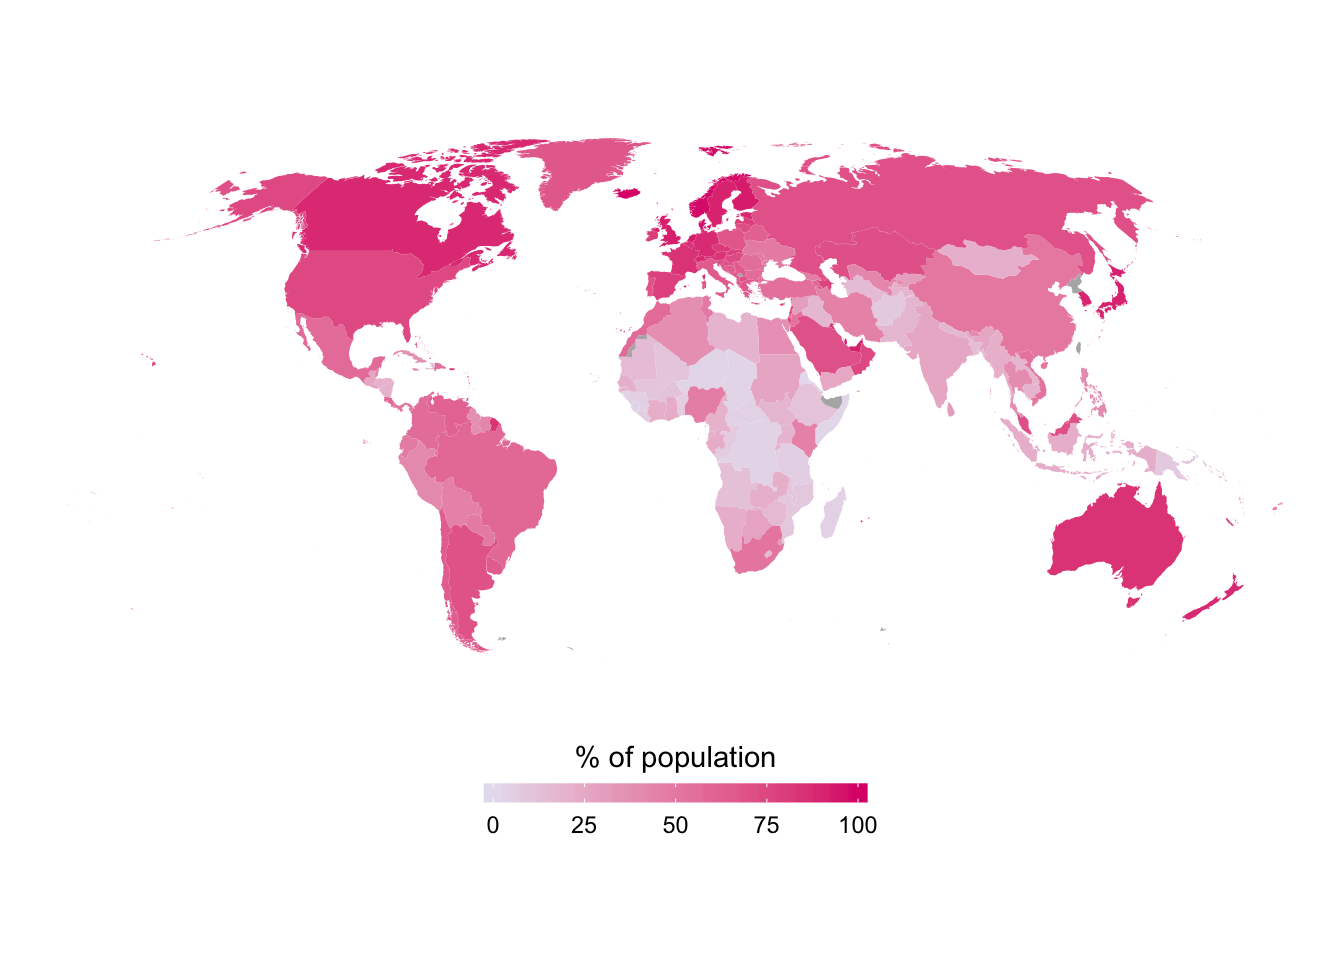
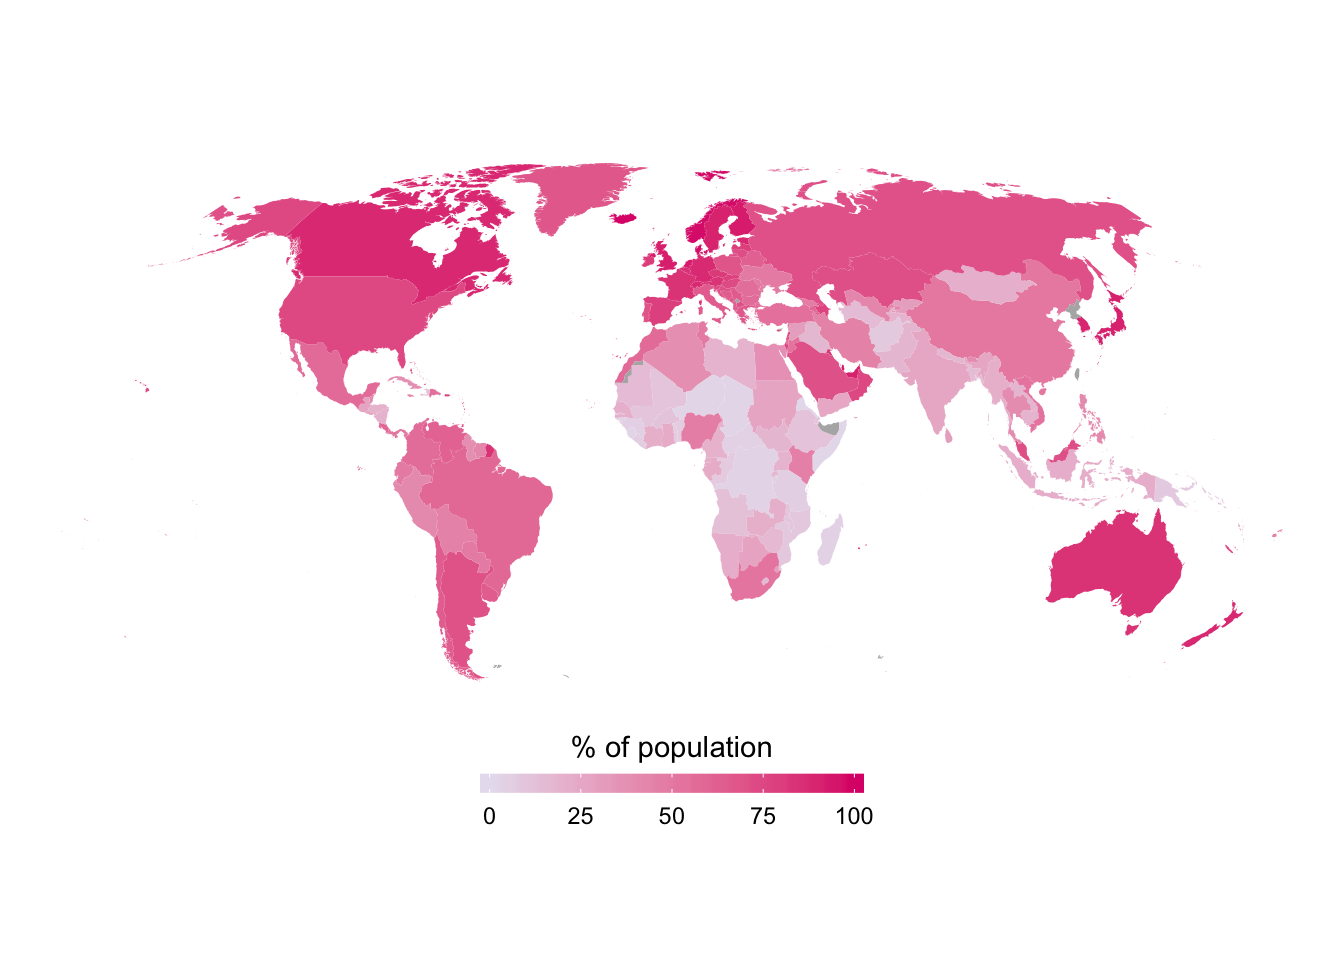
Disable automatic graticule

Changed region(s): [[0.1562, 0.125, 0.9375, 0.7188], [0.3438, 0.75, 0.6562, 0.875], [0.875, 0.5625, 0.9062, 0.5938]]

diff --git a/content/assignment/07-assignment.html b/content/assignment/07-assignment.html
@@ -190,7 +190,7 @@ This will download, compile, and install the latest development version of ggplo
 <p>Finally, we plot the map:</p>
 <div class="sourceCode" id="cb8"><pre class="sourceCode r"><code class="sourceCode r"><a class="sourceLine" id="cb8-1" data-line-number="1">pretty_map &lt;-<span class="st"> </span><span class="kw">ggplot</span>(users_map) <span class="op">+</span></a>
 <a class="sourceLine" id="cb8-2" data-line-number="2"><span class="st">  </span><span class="kw">geom_sf</span>(<span class="kw">aes</span>(<span class="dt">fill =</span> users), <span class="dt">color =</span> <span class="ot">NA</span>) <span class="op">+</span></a>
-<a class="sourceLine" id="cb8-3" data-line-number="3"><span class="st">  </span><span class="kw">coord_sf</span>(<span class="dt">crs =</span> <span class="kw">st_crs</span>(<span class="dv">54030</span>)) <span class="op">+</span><span class="st"> </span></a>
+<a class="sourceLine" id="cb8-3" data-line-number="3"><span class="st">  </span><span class="kw">coord_sf</span>(<span class="dt">crs =</span> <span class="kw">st_crs</span>(<span class="dv">54030</span>), <span class="dt">datum =</span> <span class="ot">NA</span>) <span class="op">+</span><span class="st"> </span></a>
 <a class="sourceLine" id="cb8-4" data-line-number="4"><span class="st">  </span><span class="kw">scale_fill_gradient</span>(<span class="dt">low =</span> <span class="st">&quot;#e7e1ef&quot;</span>, <span class="dt">high =</span> <span class="st">&quot;#dd1c77&quot;</span>, <span class="dt">na.value =</span> <span class="st">&quot;grey70&quot;</span>,</a>
 <a class="sourceLine" id="cb8-5" data-line-number="5">                      <span class="dt">limits =</span> <span class="kw">c</span>(<span class="dv">0</span>, <span class="dv">100</span>)) <span class="op">+</span><span class="st"> </span></a>
 <a class="sourceLine" id="cb8-6" data-line-number="6"><span class="st">  </span><span class="kw">guides</span>(<span class="dt">fill =</span> <span class="kw">guide_colorbar</span>(<span class="dt">title.position =</span> <span class="st">&quot;top&quot;</span>, </a>

diff --git a/content/class/07-class.html b/content/class/07-class.html
@@ -135,7 +135,7 @@ code span.wa { color: #bf0303; } /* Warning */
 <a class="sourceLine" id="cb1-30" data-line-number="30"><span class="st">  </span><span class="kw">guides</span>(<span class="dt">size =</span> <span class="ot">FALSE</span>, </a>
 <a class="sourceLine" id="cb1-31" data-line-number="31">         <span class="dt">fill =</span> <span class="kw">guide_colorbar</span>(<span class="dt">title =</span> <span class="st">&quot;Number of libraries&quot;</span>, </a>
 <a class="sourceLine" id="cb1-32" data-line-number="32">                               <span class="dt">title.position =</span> <span class="st">&quot;top&quot;</span>, <span class="dt">barwidth =</span> <span class="dv">10</span>)) <span class="op">+</span></a>
-<a class="sourceLine" id="cb1-33" data-line-number="33"><span class="st">  </span><span class="kw">coord_sf</span>(<span class="dt">crs =</span> <span class="dv">26912</span>) <span class="op">+</span><span class="st"> </span></a>
+<a class="sourceLine" id="cb1-33" data-line-number="33"><span class="st">  </span><span class="kw">coord_sf</span>(<span class="dt">crs =</span> <span class="dv">26912</span>, <span class="dt">datum =</span> <span class="ot">NA</span>) <span class="op">+</span><span class="st"> </span></a>
 <a class="sourceLine" id="cb1-34" data-line-number="34"><span class="st">  </span><span class="kw">theme_void</span>() <span class="op">+</span></a>
 <a class="sourceLine" id="cb1-35" data-line-number="35"><span class="st">  </span><span class="kw">theme</span>(<span class="dt">legend.position =</span> <span class="st">&quot;bottom&quot;</span>)</a>
 <a class="sourceLine" id="cb1-36" data-line-number="36"></a>
